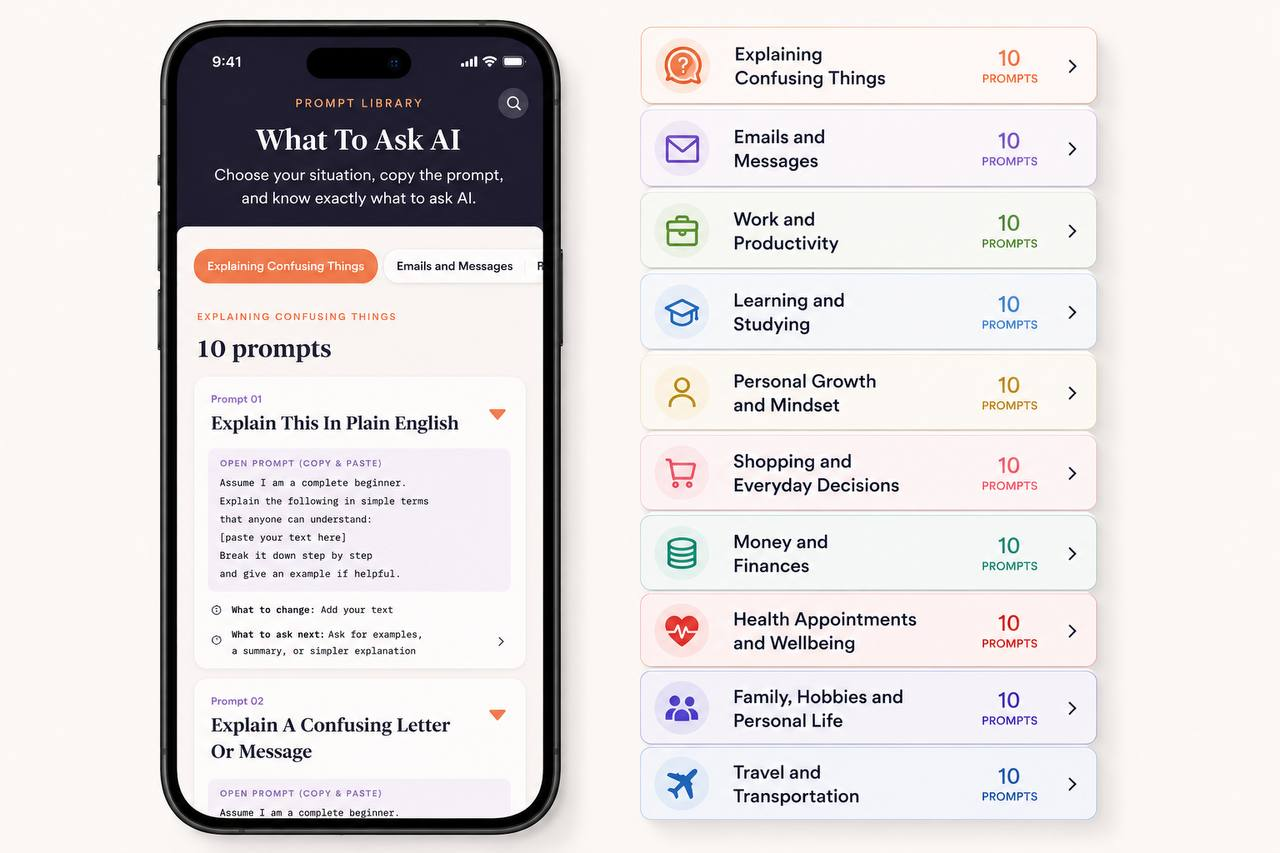
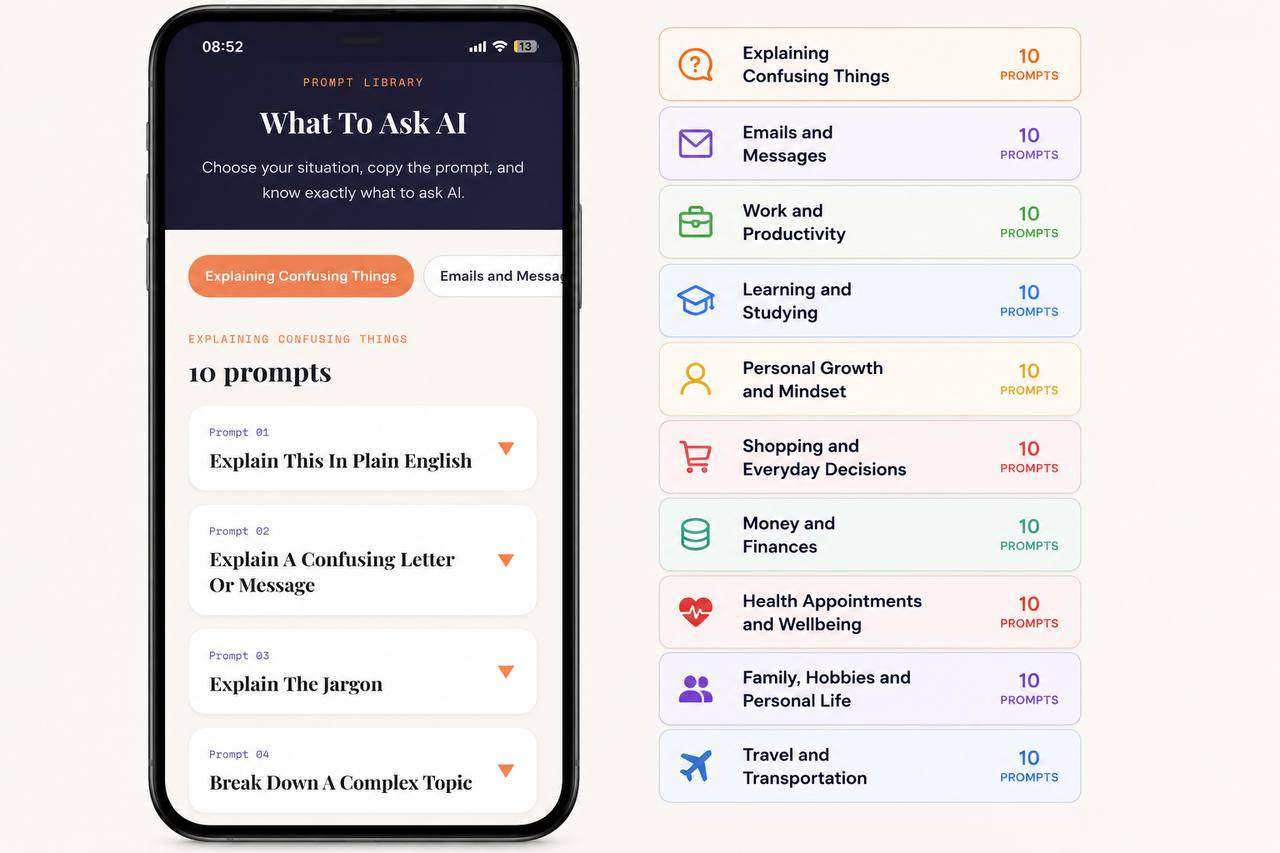
xxx

Changed region(s): [[0.0938, 0.0, 0.4688, 1.0], [0.5, 0.0305, 0.875, 0.9754]]

diff --git a/index.html b/index.html
@@ -433,8 +433,8 @@ body{font-family:'Anton',sans-serif;color:var(--dark);background:var(--white);-w
 <span class="hero-label">AI Starter Prompt Library + How To Use It</span>
 <h1>Know exactly what to ask AI in everyday life, <em>without having to figure it out yourself.</em></h1>
 <div style="max-width:720px;margin:36px auto 32px"><img src="heroimg.jpg" alt="AI Starter Prompt Pack + Guide" style="display:block;width:100%;height:auto;border-radius:18px;box-shadow:0 18px 50px rgba(0,0,0,.18)"></div>
-<p class="hero-summary">No PDF to work through, just 100 ready-to-use messages for daily situations. Find the prompt that matches your situation, copy, paste and send. Simple to use even if you have never used AI before and are not technical.</p>
-<div class="cta-wrapper"><a href="https://buy.stripe.com/7sY9ASdrd9gw1Yc1XAbZe0O" class="btn-dark checkout-cta">Get Instant Access - £19</a><a href="#" class="inline-cta whats-inside-link">What's inside</a><p class="cta-sub"><span class="cta-lock"><svg viewBox="0 0 12 12" fill="none" aria-hidden="true"><rect x="2.25" y="5" width="7.5" height="5.5" rx="1.25" stroke="currentColor" stroke-width="1.2"/><path d="M4 5V3.8C4 2.25 4.9 1.5 6 1.5C7.1 1.5 8 2.25 8 3.8V5" stroke="currentColor" stroke-width="1.2" stroke-linecap="round"/></svg>Instant access</span> &nbsp; Use forever &nbsp; 30-day money-back guarantee</p></div>
+<p class="hero-summary">No PDF to work through. Just 100 ready-to-use messages for daily situations. Find the prompt that matches what you need, copy it, paste it into ChatGPT, and send - simple even if you are not technical and have never used AI before.</p>
+<div class="cta-wrapper"><a href="https://buy.stripe.com/7sY9ASdrd9gw1Yc1XAbZe0O" class="btn-dark checkout-cta">Get Instant Access To The Prompt Library - £19</a><a href="#" class="inline-cta whats-inside-link">What's inside</a><p class="cta-sub"><span class="cta-lock"><svg viewBox="0 0 12 12" fill="none" aria-hidden="true"><rect x="2.25" y="5" width="7.5" height="5.5" rx="1.25" stroke="currentColor" stroke-width="1.2"/><path d="M4 5V3.8C4 2.25 4.9 1.5 6 1.5C7.1 1.5 8 2.25 8 3.8V5" stroke="currentColor" stroke-width="1.2" stroke-linecap="round"/></svg>Instant access</span> &nbsp; Use forever &nbsp; 30-day money-back guarantee</p></div>
 </section>
 <div class="divider"></div>
 
